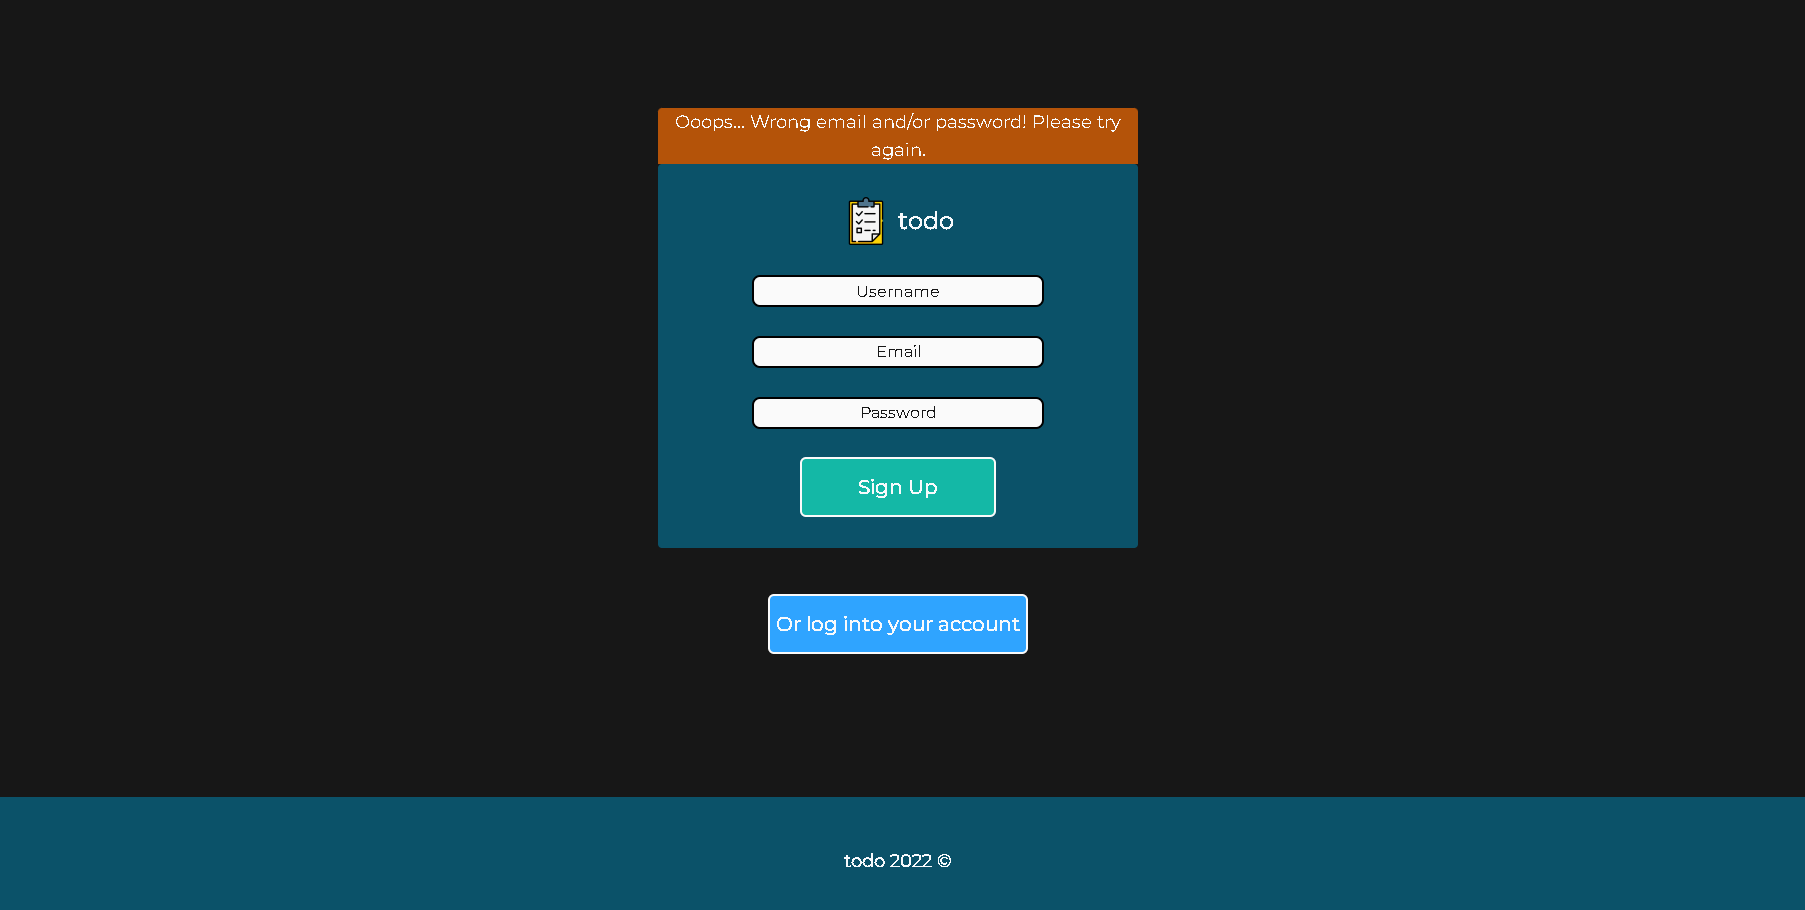
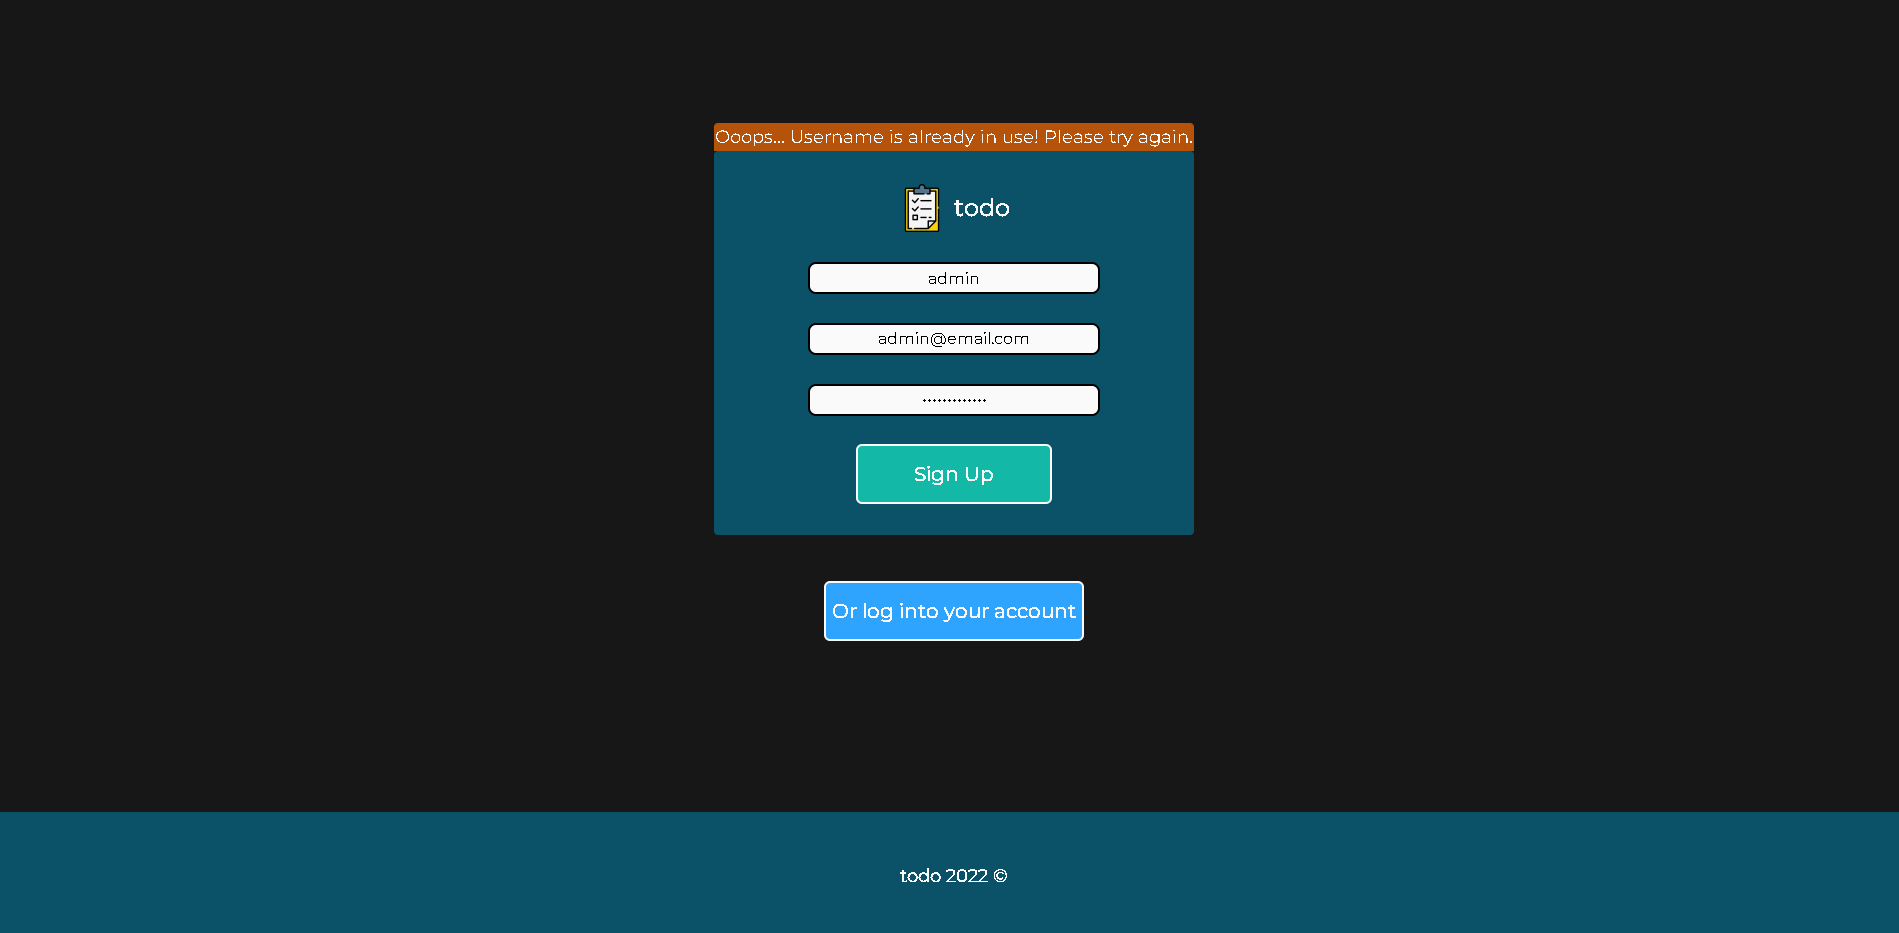
Readme update - how to use

Changed region(s): [[0.3413, 0.0923, 0.6515, 0.7385], [0.0, 0.8615, 1.0, 0.8923], [0.4654, 0.9231, 0.5274, 0.9538]]

diff --git a/client/src/Components/PresentationalComponents/SignUp/SignUp.js b/client/src/Components/PresentationalComponents/SignUp/SignUp.js
@@ -35,7 +35,7 @@ const SignUp = (props) => {
             </div>
 
             <div className={ 'bg-[#0B5269] text-center text-lg flex flex-col justify-center place-items-center xxl:h-32 xl:h-32 lg:h-20' } >
-                <h3 className={ 'font-bold my-1' } >todo 2022 ©</h3>
+                <h3 className={ 'font-bold my-1' } >todo 2023 ©</h3>
             </div>
         </div>
     );

diff --git a/client/src/Components/PresentationalComponents/Login/Login.js b/client/src/Components/PresentationalComponents/Login/Login.js
@@ -33,7 +33,7 @@ const Login = (props) => {
             </div>
 
             <div className={ 'bg-[#0B5269] text-center text-lg flex flex-col justify-center place-items-center xxl:h-32 xl:h-32 lg:h-20' } >
-                <h3 className={ 'font-bold my-1' } >todo 2022 ©</h3>
+                <h3 className={ 'font-bold my-1' } >todo 2023 ©</h3>
             </div>
         </div>
     );

diff --git a/README.md b/README.md
@@ -75,52 +75,61 @@ The application consists of the following main components:
 
 ### Sign up
 
-The user can create a new account that is saved in a database to be used to login later. As the website is just a project, the user can insert an 'hypothetical' email address, however, it needs to be in the format of an email, e.g., address@email.com;
+The user can create a new account that is saved in a database to be used to login later. As the website is just a project, the user can insert an 'hypothetical' email address to check the website out, however, it needs to be in the format of an email, e.g., address@email.com;
+
+If you try to create an account with an already used username, the following warning will appear "Ooops... Username is already in use! Please try again." above the sign up div;
+
+Also, the website checks if the email and password comply with a set of rules, and if not, a warning will let you know what you need to correct.
 
 ### Login
 
 The user can login with an existing account created using the sign up page;
 
+If you try to login with wrong credentials, the following warning will appear "Ooops... Wrong email and/or password! Please try again." above the login div;
+
+Also, the website checks if the email and password comply with a set of rules, and if not, a warning will let you know what you need to correct.
+
 ### Sidebar
 
-The user can select which page he wants to access: Inbox, Today, Upcoming and All Todos. 
-Another feature (not yet implemented) is to allow the user to create personal Projects and access them through this sidebar. These Projects would also appear in a list from where the user could choose the appropriate project when creating or editing a todo;
+The user can select which page he wants to access: Inbox, Today, Upcoming and All Todos;
+
+Another feature (not yet implemented) is to allow the user to create personal Projects and access them through this sidebar. These Projects would also appear in a list from where the user could choose the appropriate project when creating or editing a todo.
 
 ### Header
 
-Contains the application logo, the search field, and add new todo, notifications, and logout buttons; 
+Contains the application logo, the search field, and add new todo, notifications, and logout buttons.
 
 ### Notifications
 
-The notifications icon informs the user if there are new todos and if there are any todos that he should pay attention that day. If so, by clicking on the notifications icon, the user will access the notifications window where such information will be available;
+The notifications icon informs the user if there are new todos and if there are any todos that he should pay attention that day. If so, by clicking on the notifications icon, the user will access the notifications window where such information will be available.
 
 ### Search field and search results
 
-The search field allows to look up for any topic that the user may want to search. The results will show any todo with its description, associated comments or projects containing the topic that the user was trying to find. If no results are found, the page will inform the user of that;
+The search field allows to look up for any topic that the user may want to search. The results will show any todo with its description, associated comments or projects containing the topic that the user was trying to find. If no results are found, the page will inform the user of that.
 
 ### Inbox todos
 
-The Inbox page showw new todos, i.e., todos that the user had not seen before;
+The Inbox page showw new todos, i.e., todos that the user had not seen before.
 
 ### Today todos and Upcoming todos
 
-The Today and Ppcoming pages show todos that have a due date of today or upcoming dates, respectively;
+The Today and Ppcoming pages show todos that have a due date of today or upcoming dates, respectively.
 
 ### All todos
 
-The All Todos page shows every todo saved in the database related with the user;
+The All Todos page shows every todo saved in the database related with the user.
 
 ### Add new todos
 
-By clicking on the add todos icon in the header, a add todo window will pop up with the input fields that will allow the user to then submit a new todo;
+By clicking on the add todos icon in the header, a add todo window will pop up with the input fields that will allow the user to then submit a new todo.
 
 ### Edit todos
 
-Each todo presents a edit icon which when clicked, a edit todo window will pop up with the input fields that will allow the user to then edit the todo. When the window opens, the input fields have the current variables state as placeholder text;
+Each todo presents a edit icon which when clicked, a edit todo window will pop up with the input fields that will allow the user to then edit the todo. When the window opens, the input fields have the current variables state as placeholder text.
 
 ### Delete todos
 
-Each todo presents a delete icon which when clicked, will delete the todo from the database;
+Each todo presents a delete icon which when clicked, will delete the todo from the database.
 
 ### Acknowledgements and Terms of Use
 
@@ -249,7 +258,9 @@ This way, it was possible to test the client as a whole as recommended by React 
 
 ## Future Work
 
-The application has now a responsive design considering the 1536px, 1280px, and 1024px minimum-width breakpoints. In that perspective, future work will address this issue and make it responsive to smaller screen sizes comprising, e.g., phones.
+The application has now a responsive design considering the 1536px, 1280px, and 1024px minimum-width breakpoints. In that perspective, future work will address this issue and make it responsive to smaller screen sizes comprising, e.g., phones;
+
+Another feature is to allow the user to create personal Projects and access them through the sidebar. These Projects would also appear in a list from where the user could choose the appropriate project when creating or editing a todo.
 
 ## Author
 
